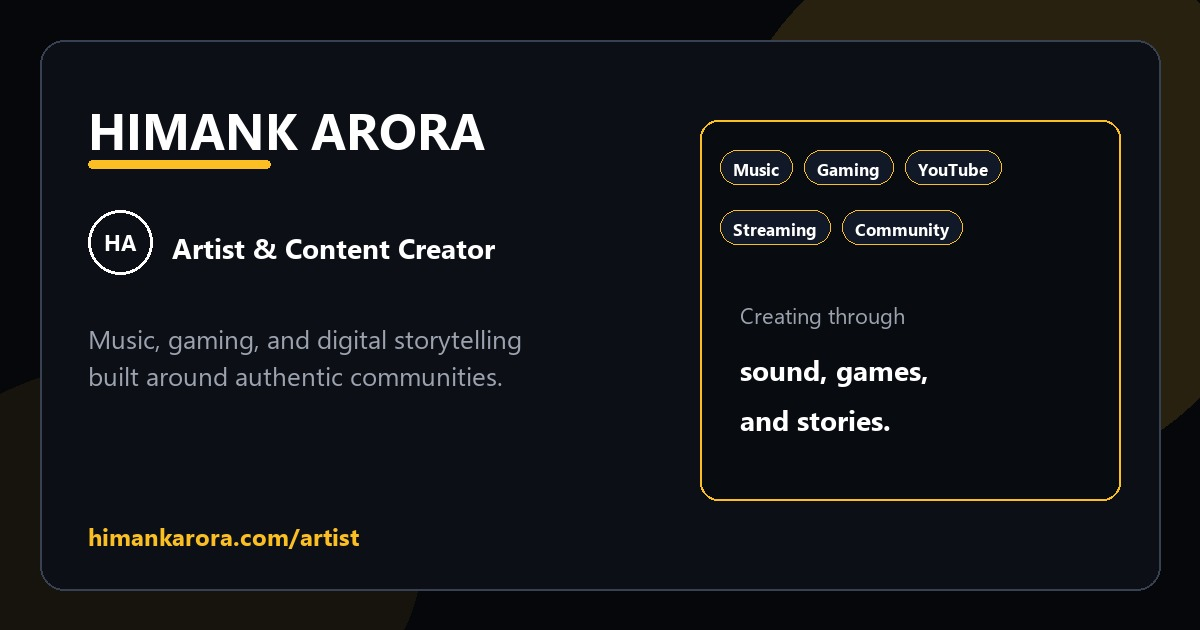
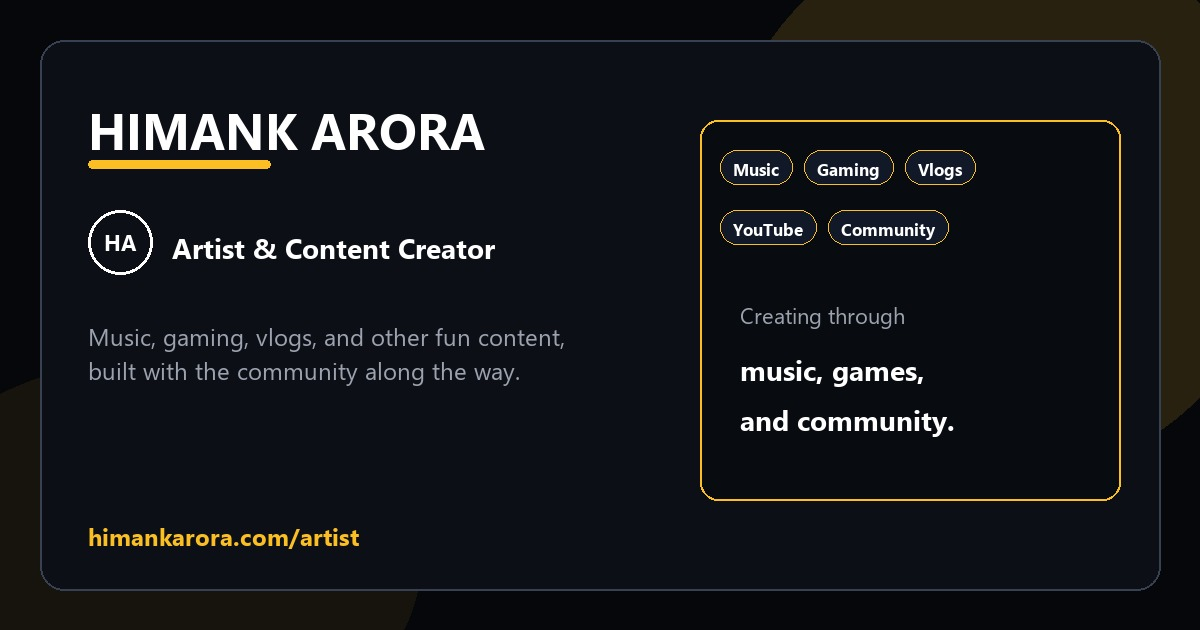
Ship a clearer dual-identity hub share image with cache-busting URLs.

diff --git a/public/index.html b/public/index.html
@@ -23,10 +23,10 @@
     
     <!-- Enhanced Open Graph Meta Tags -->
     <meta property="og:title" content="Himank Arora - Analyst by craft, Artist by passion" />
-    <meta property="og:description" content="Explore both sides: Technical Analyst & Developer, and Artist & Content Creator. Analysis-driven product work, development projects, music, and creative content." />
+    <meta property="og:description" content="Explore both sides: Technical Analyst & Developer, and Artist & Content Creator. Analysis-driven product work, plus music, gaming, vlogs, and community." />
     <meta property="og:type" content="website" />
     <meta property="og:url" content="https://himankarora.com" />
-    <meta property="og:image" content="https://himankarora.com/images/og-image.jpg" />
+    <meta property="og:image" content="https://himankarora.com/images/og-hub.jpg" />
     <meta property="og:image:width" content="1200" />
     <meta property="og:image:height" content="630" />
     <meta property="og:image:alt" content="Himank Arora - Technical Analyst & Developer and Artist & Content Creator" />
@@ -37,7 +37,7 @@
     <meta name="twitter:card" content="summary_large_image" />
     <meta name="twitter:title" content="Himank Arora - Analyst by craft, Artist by passion" />
     <meta name="twitter:description" content="Explore both sides: Technical Analyst & Developer, and Artist & Content Creator." />
-    <meta name="twitter:image" content="https://himankarora.com/images/twitter-image.jpg" />
+    <meta name="twitter:image" content="https://himankarora.com/images/twitter-hub.jpg" />
     <meta name="twitter:image:alt" content="Himank Arora dual portfolio preview" />
     <meta name="twitter:creator" content="@himankaroraa" />
     <meta name="twitter:site" content="@himankaroraa" />

diff --git a/src/utils/contentManager.js b/src/utils/contentManager.js
@@ -585,10 +585,10 @@ export const contentData = {
   meta: {
     site_url: "https://himankarora.com",
     site_name: "Himank Arora Portfolio",
-    og_image: "/images/og-image.jpg",
+    og_image: "/images/og-hub.jpg",
     og_image_tech: "/images/og-image-tech.jpg",
     og_image_artist: "/images/og-image-artist.jpg",
-    twitter_image: "/images/twitter-image.jpg",
+    twitter_image: "/images/twitter-hub.jpg",
     favicon: "/favicon.ico",
     last_updated: new Date().toISOString(),
     version: "2.0.0",

diff --git a/src/components/SEO.jsx b/src/components/SEO.jsx
@@ -53,8 +53,8 @@ const SEO = ({
       "jobTitle": currentPath.startsWith('/tech')
         ? "Technical Analyst & Developer"
         : currentPath.startsWith('/artist')
-          ? "Content Creator & Musician"
-          : "Technical Analyst & Developer",
+          ? "Artist & Content Creator"
+          : ["Technical Analyst & Developer", "Artist & Content Creator"],
       "alumniOf": [
         {
           "@type": "EducationalOrganization",

diff --git a/public/sw.js b/public/sw.js
@@ -10,7 +10,7 @@ const PRECACHE_ASSETS = [
   '/favicon.ico',
   '/favicon.svg',
   '/apple-touch-icon.png',
-  '/images/og-image.jpg',
+  '/images/og-hub.jpg',
 ];
 
 self.addEventListener('install', (event) => {

diff --git a/scripts/generate-share-assets.py b/scripts/generate-share-assets.py
@@ -29,12 +29,16 @@ def font(size, bold=False):
     return ImageFont.load_default()
 
 
-def base_canvas(width=1200, height=630, accent=CYAN):
+def base_canvas(width=1200, height=630, accent=CYAN, dual=False):
     img = Image.new("RGB", (width, height), BG)
     glow = Image.new("RGBA", (width, height), (0, 0, 0, 0))
     gdraw = ImageDraw.Draw(glow)
-    gdraw.ellipse((720, -80, 1280, 480), fill=(*accent, 36))
-    gdraw.ellipse((-120, 360, 420, 760), fill=(*accent, 18))
+    if dual:
+        gdraw.ellipse((-80, -100, 520, 420), fill=(*CYAN, 42))
+        gdraw.ellipse((680, 220, 1320, 760), fill=(*AMBER, 42))
+    else:
+        gdraw.ellipse((720, -80, 1280, 480), fill=(*accent, 36))
+        gdraw.ellipse((-120, 360, 420, 760), fill=(*accent, 18))
     img = Image.alpha_composite(img.convert("RGBA"), glow).convert("RGB")
     draw = ImageDraw.Draw(img)
     margin = 40
@@ -57,41 +61,67 @@ def draw_chip(draw, x, y, label, accent=CYAN):
 
 
 def draw_hub_card(path: Path):
-    """Dual-identity card for himankarora.com homepage shares."""
-    img, draw = base_canvas()
+    """Dual-identity share card: equal tech + artist halves about Himank."""
+    img, draw = base_canvas(dual=True)
+    width, height = img.size
 
-    draw.text((88, 88), "HIMANK ARORA", font=font(48, bold=True), fill=WHITE)
-    draw.rounded_rectangle((88, 150, 260, 158), radius=4, fill=CYAN)
+    # Centered brand header
+    draw.text((width / 2, 92), "HIMANK ARORA", font=font(52, bold=True), fill=WHITE, anchor="mt")
+    # Dual underline: cyan + amber
+    draw.rounded_rectangle((width / 2 - 120, 156, width / 2 - 8, 164), radius=4, fill=CYAN)
+    draw.rounded_rectangle((width / 2 + 8, 156, width / 2 + 120, 164), radius=4, fill=AMBER)
 
-    badge_x, badge_y = 88, 188
+    badge_x, badge_y = width / 2 - 28, 186
     draw.ellipse((badge_x, badge_y, badge_x + 56, badge_y + 56), outline=WHITE, width=3)
-    draw.text((badge_x + 28, badge_y + 28), "HA", font=font(20, bold=True), fill=WHITE, anchor="mm")
-    draw.text((164, 198), "Analyst by craft  ·  Artist by passion", font=font(24, bold=True), fill=WHITE)
-
+    draw.text((width / 2, badge_y + 28), "HA", font=font(20, bold=True), fill=WHITE, anchor="mm")
     draw.text(
-        (88, 270),
-        "One portfolio. Two paths — pick the side you want to explore.",
-        font=font(22),
+        (width / 2, 268),
+        "Analyst by craft  ·  Artist by passion",
+        font=font(24, bold=True),
+        fill=WHITE,
+        anchor="mt",
+    )
+    draw.text(
+        (width / 2, 308),
+        "One person. Two portfolios. Pick a path.",
+        font=font(20),
         fill=MUTED,
+        anchor="mt",
     )
 
-    # Tech path card
-    draw.rounded_rectangle((88, 330, 560, 510), radius=18, fill=(8, 11, 16), outline=CYAN, width=2)
-    draw.text((118, 358), "Technical Analyst & Developer", font=font(22, bold=True), fill=WHITE)
-    draw.text((118, 400), "Analysis, engineering, and shipping\nproducts people actually use.", font=font(18), fill=MUTED, spacing=4)
-    x = 118
-    for label in ("React", "Python", "SQL"):
-        x += draw_chip(draw, x, 458, label, CYAN) + 10
+    # Equal path panels
+    left = (72, 360, 584, 540)
+    right = (616, 360, 1128, 540)
+    draw.rounded_rectangle(left, radius=18, fill=(8, 11, 16), outline=CYAN, width=3)
+    draw.rounded_rectangle(right, radius=18, fill=(8, 11, 16), outline=AMBER, width=3)
 
-    # Artist path card
-    draw.rounded_rectangle((600, 330, 1112, 510), radius=18, fill=(8, 11, 16), outline=AMBER, width=2)
-    draw.text((630, 358), "Artist & Content Creator", font=font(22, bold=True), fill=WHITE)
-    draw.text((630, 400), "Music, gaming, and storytelling\nacross communities and platforms.", font=font(18), fill=MUTED, spacing=4)
-    x = 630
-    for label in ("Music", "Gaming", "YouTube"):
-        x += draw_chip(draw, x, 458, label, AMBER) + 10
+    draw.text((112, 384), "TECH", font=font(14, bold=True), fill=CYAN)
+    draw.text((112, 408), "Technical Analyst & Developer", font=font(22, bold=True), fill=WHITE)
+    draw.text(
+        (112, 446),
+        "Analysis and engineering.\nShipping products people use.",
+        font=font(17),
+        fill=MUTED,
+        spacing=3,
+    )
+    x = 112
+    for label in ("Analysis", "React", "Python"):
+        x += draw_chip(draw, x, 498, label, CYAN) + 8
 
-    draw.text((88, 545), "himankarora.com", font=font(22, bold=True), fill=CYAN)
+    draw.text((656, 384), "ARTIST", font=font(14, bold=True), fill=AMBER)
+    draw.text((656, 408), "Artist & Content Creator", font=font(22, bold=True), fill=WHITE)
+    draw.text(
+        (656, 446),
+        "Music, gaming, vlogs, and\ncommunity along the way.",
+        font=font(17),
+        fill=MUTED,
+        spacing=3,
+    )
+    x = 656
+    for label in ("Music", "Gaming", "Vlogs"):
+        x += draw_chip(draw, x, 498, label, AMBER) + 8
+
+    draw.text((width / 2, 572), "himankarora.com", font=font(22, bold=True), fill=WHITE, anchor="mt")
 
     img.save(path, "JPEG", quality=92, optimize=True)
     print(f"Wrote {path}")
@@ -140,8 +170,8 @@ def draw_artist_card(path: Path):
     draw.text((172, 228), "Artist & Content Creator", font=font(28, bold=True), fill=WHITE)
     draw.text(
         (88, 320),
-        "Music, gaming, and digital storytelling\nbuilt around authentic communities.",
-        font=font(26),
+        "Music, gaming, vlogs, and other fun content,\nbuilt with the community along the way.",
+        font=font(24),
         fill=MUTED,
         spacing=8,
     )
@@ -149,15 +179,15 @@ def draw_artist_card(path: Path):
 
     draw.rounded_rectangle((700, 120, 1120, 500), radius=18, fill=(8, 11, 16), outline=AMBER, width=2)
     x, y = 720, 150
-    for label in ("Music", "Gaming", "YouTube", "Streaming", "Community"):
+    for label in ("Music", "Gaming", "Vlogs", "YouTube", "Community"):
         w = draw_chip(draw, x, y, label, AMBER)
         x += w + 12
         if x > 980:
             x, y = 720, 210
 
     draw.text((740, 300), "Creating through", font=font(22), fill=MUTED)
-    draw.text((740, 350), "sound, games,", font=font(28, bold=True), fill=WHITE)
-    draw.text((740, 400), "and stories.", font=font(28, bold=True), fill=WHITE)
+    draw.text((740, 350), "music, games,", font=font(28, bold=True), fill=WHITE)
+    draw.text((740, 400), "and community.", font=font(28, bold=True), fill=WHITE)
 
     img.save(path, "JPEG", quality=92, optimize=True)
     print(f"Wrote {path}")
@@ -174,7 +204,9 @@ def draw_favicon_base(size=512):
 
 
 def main():
-    # Hub / default share previews
+    # Hub / default share previews (new filenames bust Discord/Twitter caches)
+    draw_hub_card(IMAGES / "og-hub.jpg")
+    draw_hub_card(IMAGES / "twitter-hub.jpg")
     draw_hub_card(IMAGES / "og-image.jpg")
     draw_hub_card(IMAGES / "twitter-image.jpg")
     # Page-specific previews
